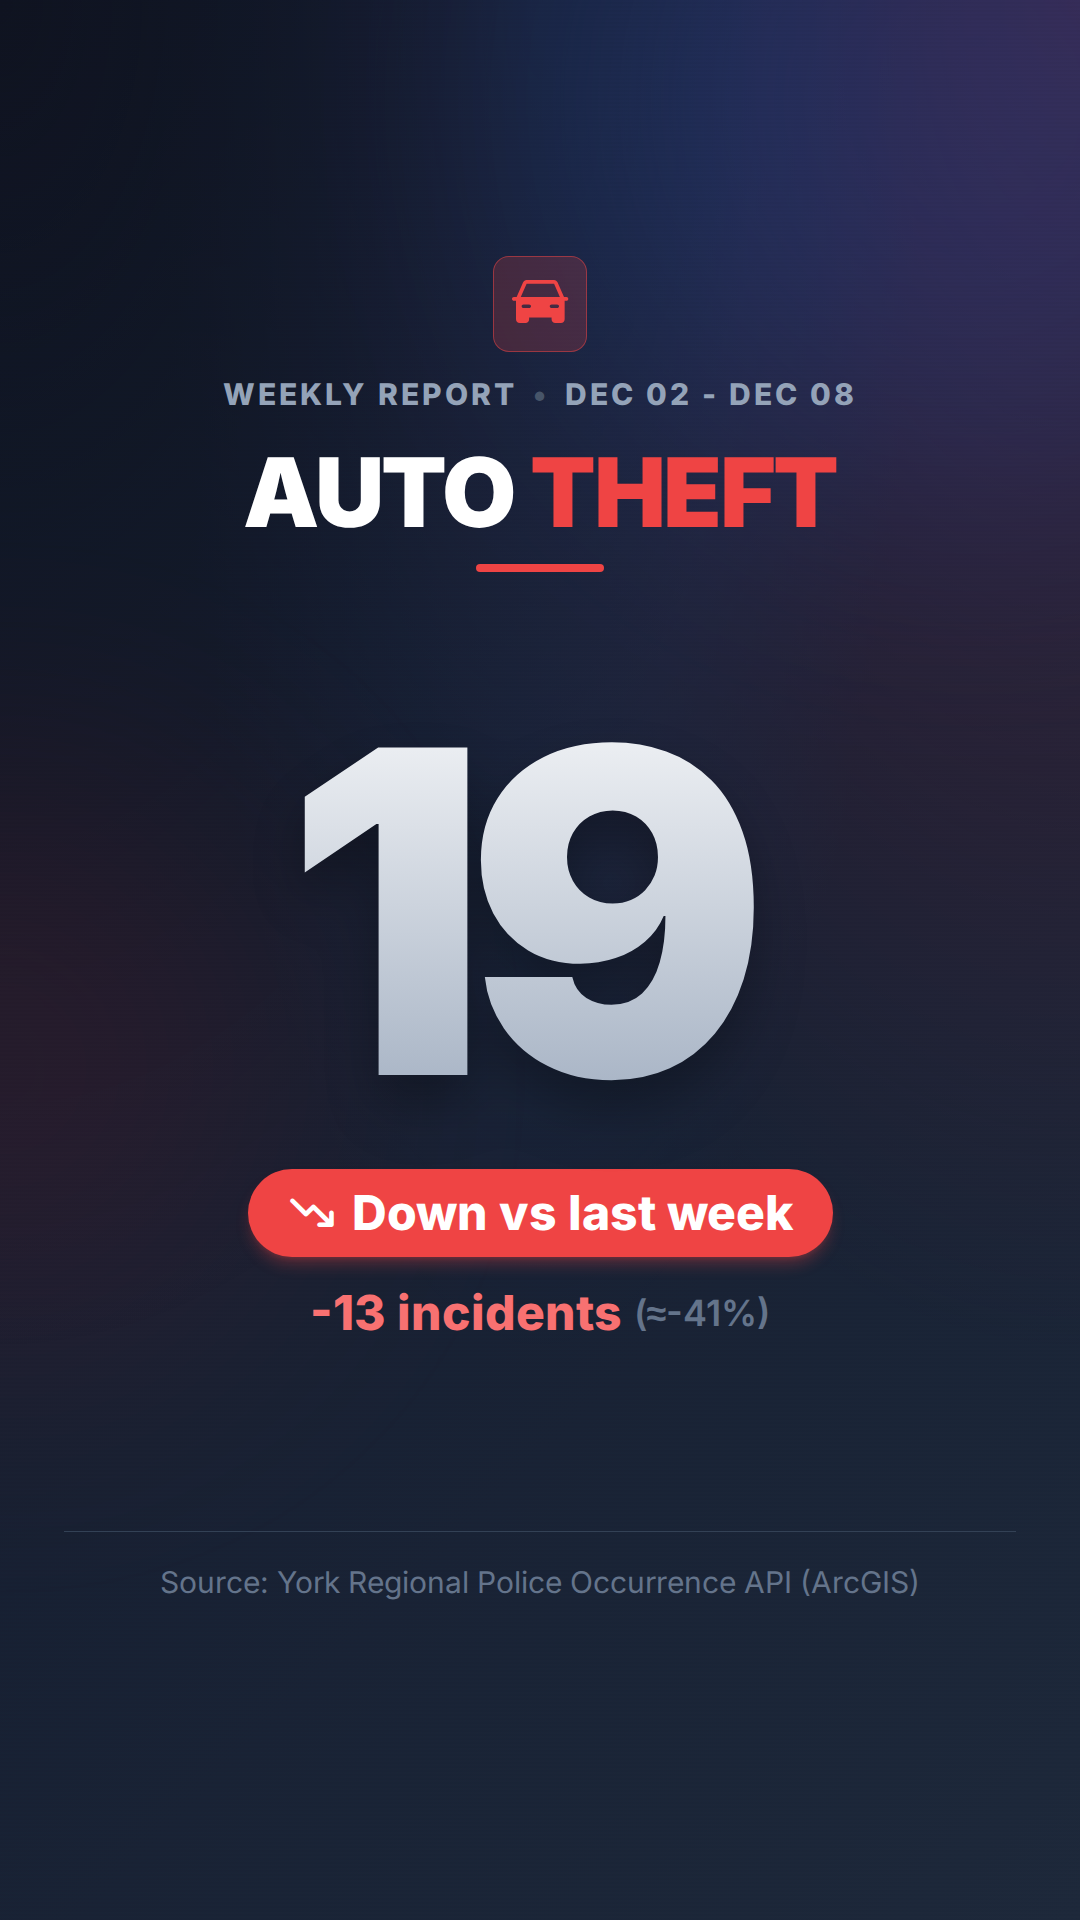
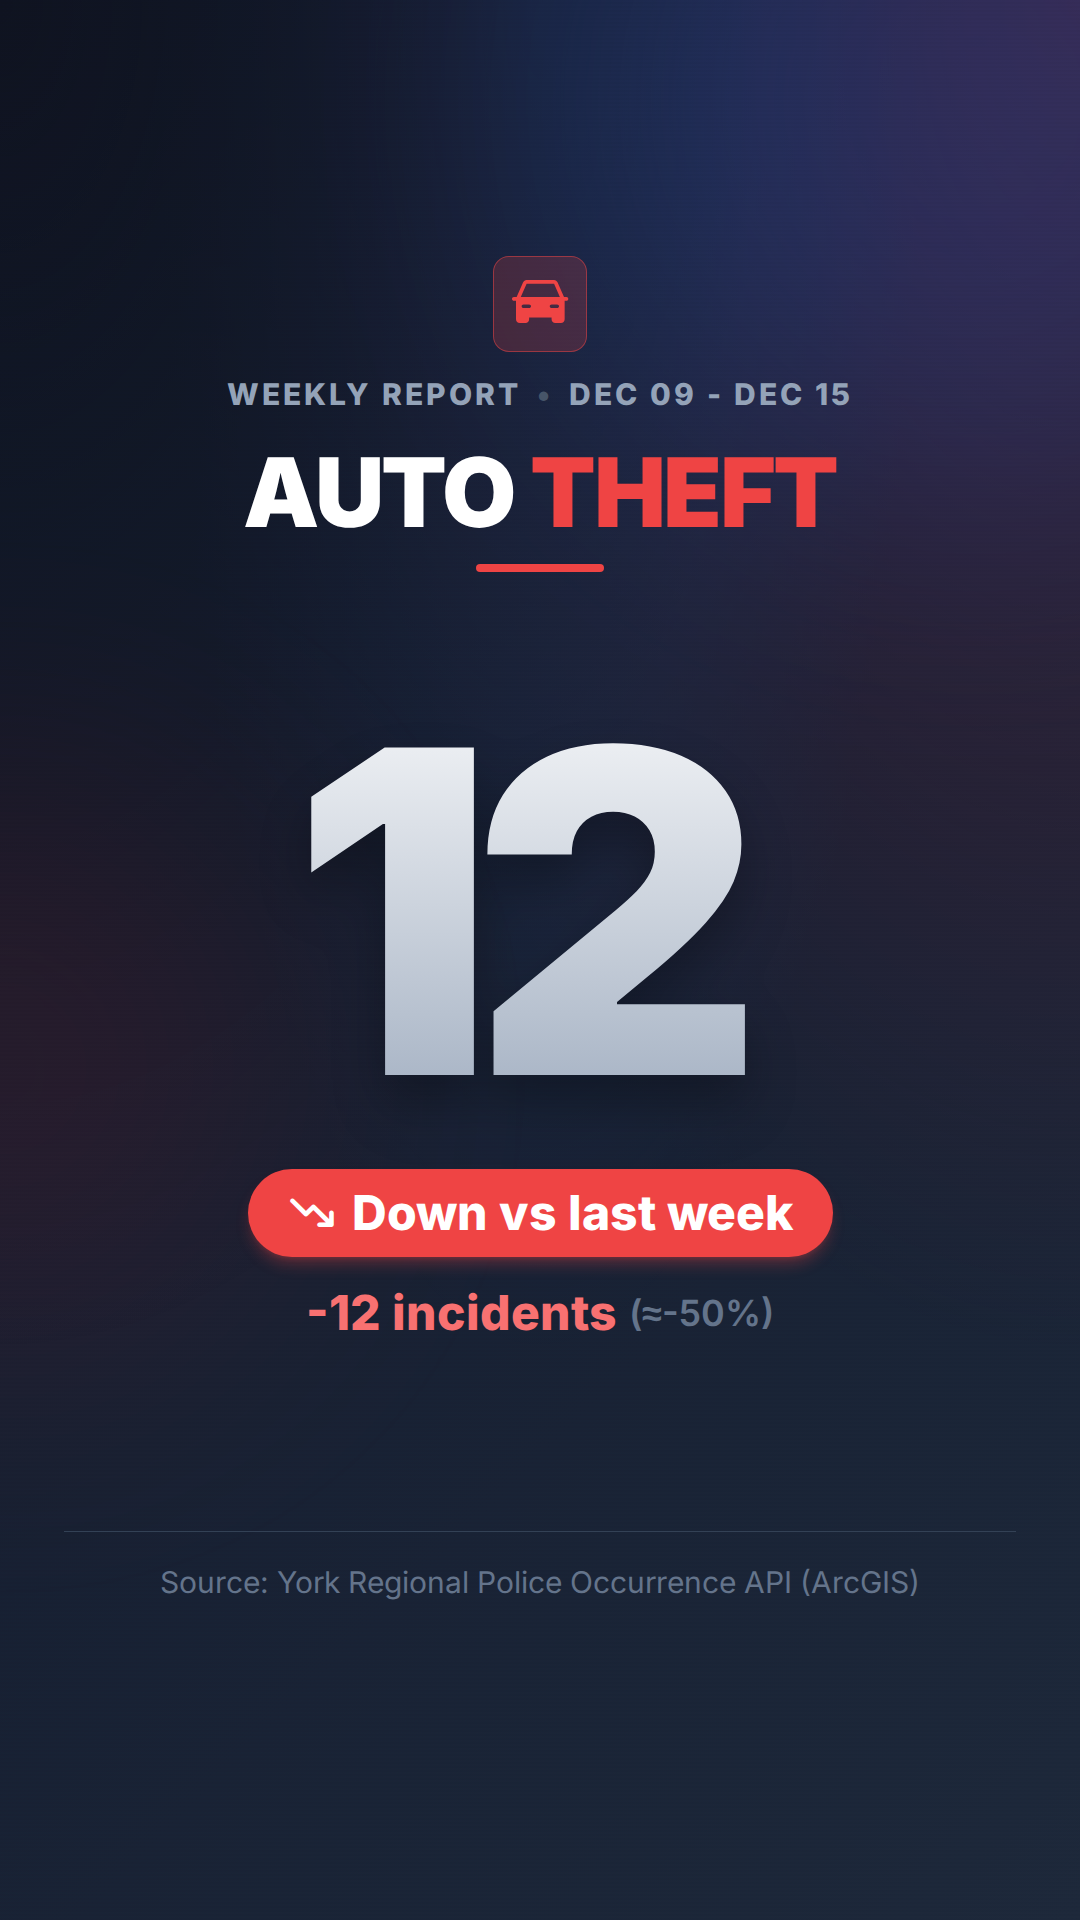
Update stats and screenshots 2025-12-15

diff --git a/templates/auto-theft.html b/templates/auto-theft.html
@@ -86,7 +86,7 @@
 <div class="flex items-center gap-4">
 <span class="text-3xl font-bold tracking-widest uppercase text-slate-400" id="report-label">Weekly Report</span>
 <span class="text-3xl font-bold tracking-widest uppercase text-slate-600">•</span>
-<span class="text-3xl font-bold tracking-widest uppercase text-slate-400" id="week-range">Dec 02 - Dec 08</span>
+<span class="text-3xl font-bold tracking-widest uppercase text-slate-400" id="week-range">Dec 09 - Dec 15</span>
 </div>
 </div>
 <!-- Big Title -->
@@ -102,7 +102,7 @@
 <!-- Number -->
 <div class="text-[450px] leading-none font-black tracking-tighter bg-clip-text text-transparent bg-gradient-to-b from-white to-slate-400 drop-shadow-2xl">
 <!-- Place this where the big number should show -->
-<span class="text-[450px] leading-none font-black tracking-tighter bg-clip-text text-transparent bg-gradient-to-b from-white to-slate-400 drop-shadow-2xl pr-12 pb-4" id="auto-theft-count">19</span>
+<span class="text-[450px] leading-none font-black tracking-tighter bg-clip-text text-transparent bg-gradient-to-b from-white to-slate-400 drop-shadow-2xl pr-12 pb-4" id="auto-theft-count">12</span>
 </div>
 <!-- Trend Info (Moved Inside) -->
 <div class="w-full flex flex-col items-center gap-8 mt-8">
@@ -113,8 +113,8 @@
 </div>
 <!-- Small Line Info -->
 <div class="flex items-center gap-3">
-<span class="text-5xl font-bold text-red-400" id="delta-incidents">-13 incidents</span>
-<span class="text-4xl text-slate-500 font-semibold" id="delta-percent">(≈-41%)</span>
+<span class="text-5xl font-bold text-red-400" id="delta-incidents">-12 incidents</span>
+<span class="text-4xl text-slate-500 font-semibold" id="delta-percent">(≈-50%)</span>
 </div>
 </div>
 </div>

diff --git a/templates/assaults.html b/templates/assaults.html
@@ -87,7 +87,7 @@
 <div class="flex items-center gap-4">
 <span class="text-3xl font-bold tracking-widest uppercase text-slate-400">Weekly Report</span>
 <span class="text-3xl font-bold tracking-widest uppercase text-slate-600">•</span>
-<span class="text-3xl font-bold tracking-widest uppercase text-slate-400" id="week-range">Dec 02 - Dec 08</span>
+<span class="text-3xl font-bold tracking-widest uppercase text-slate-400" id="week-range">Dec 09 - Dec 15</span>
 </div>
 </div>
 <!-- Big Title -->
@@ -102,7 +102,7 @@
 <div class="p-20 flex flex-col items-center relative animate-pulse-slow min-w-[600px]">
 <!-- Number -->
 <!-- Added pr-12 (padding-right) and pb-4 to prevent clipping of the large glyph -->
-<div class="text-[450px] leading-none font-black tracking-tighter bg-clip-text text-transparent bg-gradient-to-b from-white to-slate-400 drop-shadow-2xl pr-12 pb-4" id="assaults-count">72</div>
+<div class="text-[450px] leading-none font-black tracking-tighter bg-clip-text text-transparent bg-gradient-to-b from-white to-slate-400 drop-shadow-2xl pr-12 pb-4" id="assaults-count">53</div>
 <!-- Trend Info (Moved Inside) -->
 <div class="w-full flex flex-col items-center gap-8 mt-8">
 <!-- Trend Chip (Violet Theme) -->
@@ -112,8 +112,8 @@
 </div>
 <!-- Small Line Info -->
 <div class="flex items-center gap-3">
-<span class="text-5xl font-bold text-violet-400" id="delta-incidents">-36 incidents</span>
-<span class="text-4xl text-slate-500 font-semibold" id="delta-percent">(≈-33%)</span>
+<span class="text-5xl font-bold text-violet-400" id="delta-incidents">-56 incidents</span>
+<span class="text-4xl text-slate-500 font-semibold" id="delta-percent">(≈-51%)</span>
 </div>
 </div>
 </div>

diff --git a/templates/break-enter.html b/templates/break-enter.html
@@ -87,7 +87,7 @@
 <div class="flex items-center gap-4">
 <span class="text-3xl font-bold tracking-widest uppercase text-slate-400" id="report-label">Weekly Report</span>
 <span class="text-3xl font-bold tracking-widest uppercase text-slate-600">•</span>
-<span class="text-3xl font-bold tracking-widest uppercase text-slate-400" id="week-range">Dec 02 - Dec 08</span>
+<span class="text-3xl font-bold tracking-widest uppercase text-slate-400" id="week-range">Dec 09 - Dec 15</span>
 </div>
 </div>
 <!-- Big Title -->
@@ -102,7 +102,7 @@
 <div class="p-20 flex flex-col items-center relative animate-pulse-slow min-w-[600px]">
 <!-- Number -->
 <div class="text-[450px] leading-none font-black tracking-tighter bg-clip-text text-transparent bg-gradient-to-b from-white to-slate-400 drop-shadow-2xl">
-<span id="break-enter-count">28</span>
+<span id="break-enter-count">35</span>
 </div>
 <!-- Trend Info (Moved Inside) -->
 <div class="w-full flex flex-col items-center gap-8 mt-8">
@@ -113,8 +113,8 @@
 </div>
 <!-- Small Line Info -->
 <div class="flex items-center gap-3">
-<span class="text-5xl font-bold text-orange-400" id="delta-incidents">-38 incidents</span>
-<span class="text-4xl text-slate-500 font-semibold" id="delta-percent">(≈-58%)</span>
+<span class="text-5xl font-bold text-orange-400" id="delta-incidents">-21 incidents</span>
+<span class="text-4xl text-slate-500 font-semibold" id="delta-percent">(≈-38%)</span>
 </div>
 </div>
 </div>
